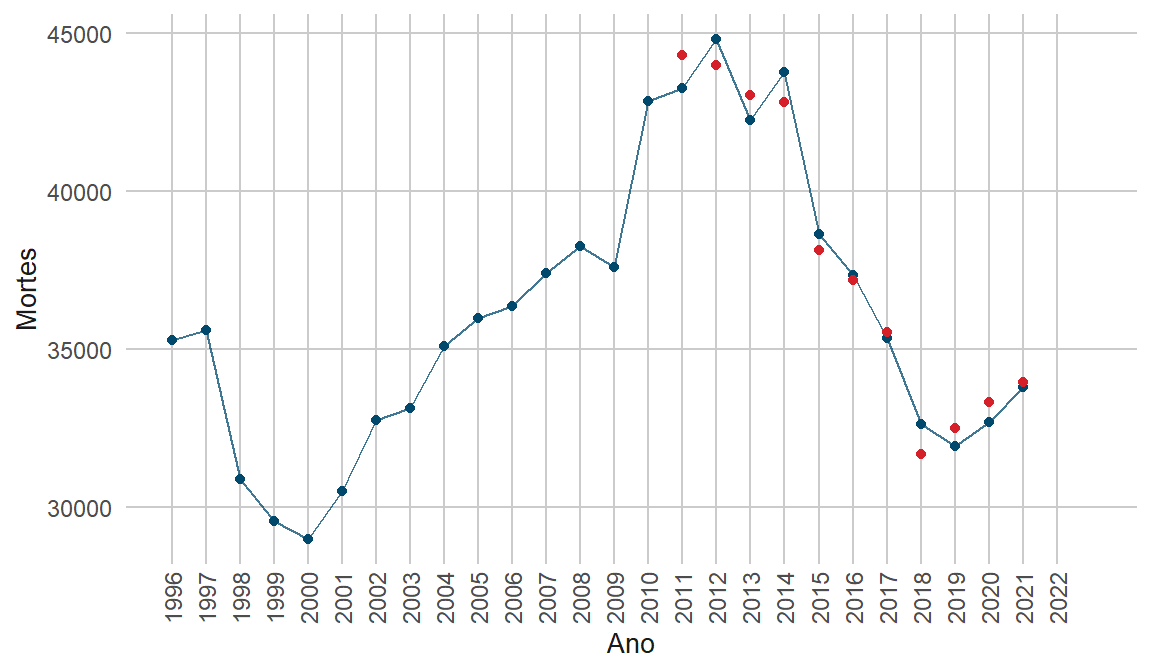
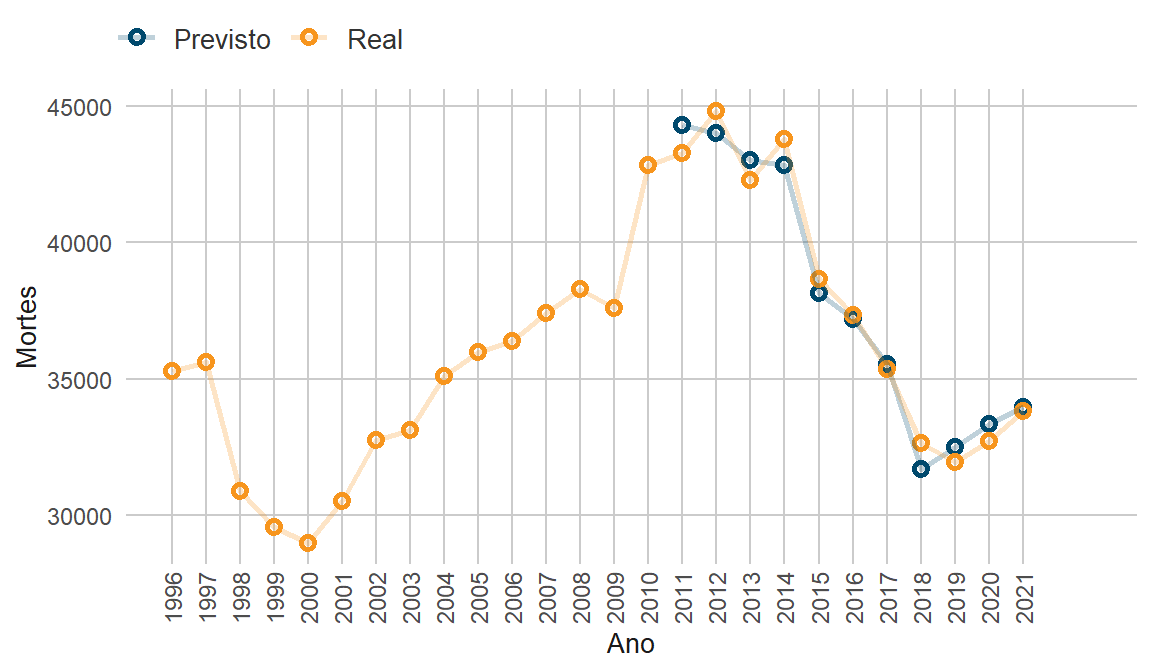
Corrige plots

diff --git a/report/05_paper.html b/report/05_paper.html
@@ -102,7 +102,7 @@ div.csl-indent {
 <section id="metodologia" class="level2">
 <h2 class="anchored" data-anchor-id="metodologia">Metodologia</h2>
 <p>A obtenção e tratamento dos dados de mortalidade foram efetuados a partir da API Microdatasus <span class="citation" data-cites="microdatasus">(<a href="#ref-microdatasus" role="doc-biblioref">Saldanha 2023</a>)</span>, coletando dados a partir de 1996 até 2021. Esta escolha de intervalo temporal visa englobar a mortalidade estimada sob o protocolo da CID-10, pelo qual o banco de dados foi adequado ao estudo extraindo apenas as observações de mortes relacionadadas a ATTs. As demais variáveis, coletadas dos portais abertos, foram tratadas e imputadas em um único <em>dataframe</em>. Entre elas, a quantidade de automóveis, a quantidade de motocicletas, a quantidade total de veículos, o PIB, a população, a quantidade de acidentes, a quantidade de acidentes fatais, a quantidade de feridos em acidente, a quantidade de mortos em acidentes e a quantidade de condutores, todas em âmbito nacional.</p>
-<p>Assim sendo, a análise exploratória dos dados (AED) foi produzida para efetivar a validade dos dados e a significância delas para a construção do modelo. É observável que diversas variáveis possuem alto grau de colinearidade entre si, indicando que a modelagem utilizando todos os atributos poderia ser afetada por uma multicolinearidade e, consequentemente, superajuste. As correlações de Pearson, Spearman e Kendall são testadas e, como indica a Figura X, apresentam correlações elevadas para a maioria dos atributos:</p>
+<p>Assim sendo, a análise exploratória dos dados (AED) foi produzida para efetivar a validade dos dados e a significância delas para a construção do modelo. É observável que diversas variáveis possuem alto grau de colinearidade entre si, indicando que a modelagem utilizando todos os atributos poderia ser afetada por uma multicolinearidade e, consequentemente, superajuste. As correlações de Pearson, Spearman e Kendall são testadas e, como indica a Figura 1, apresentam correlações elevadas para a maioria dos atributos:</p>
 <div class="cell">
 <div class="cell-output-display">
 <p><img src="05_paper_files/figure-html/unnamed-chunk-2-1.png" class="img-fluid" width="576"></p>
@@ -171,7 +171,7 @@ div.csl-indent {
 <p><img src="05_paper_files/figure-html/unnamed-chunk-7-1.png" class="img-fluid" width="576"></p>
 </div>
 </div>
-<p>Investigando as métricas de erros com base no conjunto de dados inicial, têm-se:</p>
+<p>Os métodos selecionados para aferir o modelo foram a Raiz Quadrada do Erro Médio (Root Mean Squared Error - RMSE), o Erro Médio Absoluto (Mean Squared Error - MAE) e o R-quadrado. Investigando as métricas de erros com base no conjunto de dados inicial, têm-se:</p>
 <div class="cell">
 <div class="cell-output-display">
 <table class="table table-sm table-striped small">
@@ -198,6 +198,7 @@ div.csl-indent {
 </table>
 </div>
 </div>
+<p>A valor obtido da previsão implica uma leve queda de 7,4% no número de mortes em relação ao ano anterior, que teria registrado 33813 casos. Conforme a análise dos dados, 2021 teria sido o segundo ano consecutivo a dispor de um aumento em fatalidades no trânsito. O intervalo de confiança mostra como este pode ser o caso de 2022 novamente, não obstante da diminuição prevista para as mortes. Ademais, vê-se que apesar da intensidade das correlação dos preditores selecionados para o estudo, a resoluação temporal anual permanece como um gargálo para a análise dos sinistros viários, já que a disponibilidade de dados é reduzida.</p>
 </section>
 <section id="conclusão" class="level2">
 <h2 class="anchored" data-anchor-id="conclusão">Conclusão</h2>
